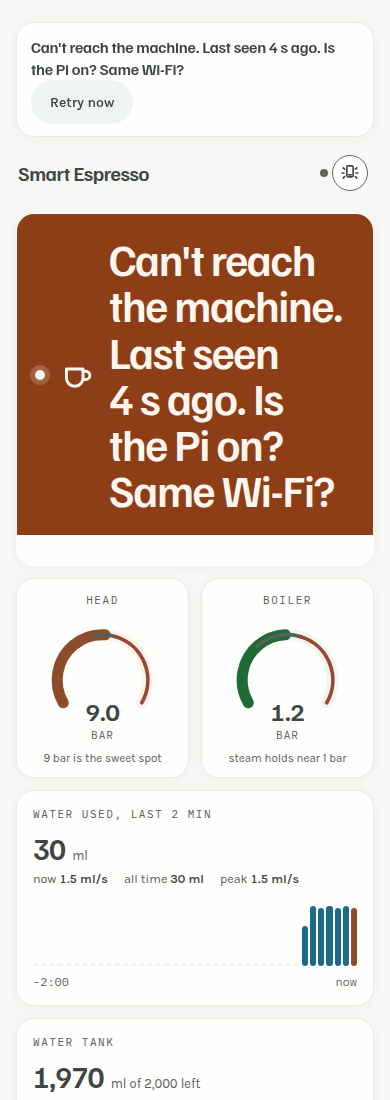
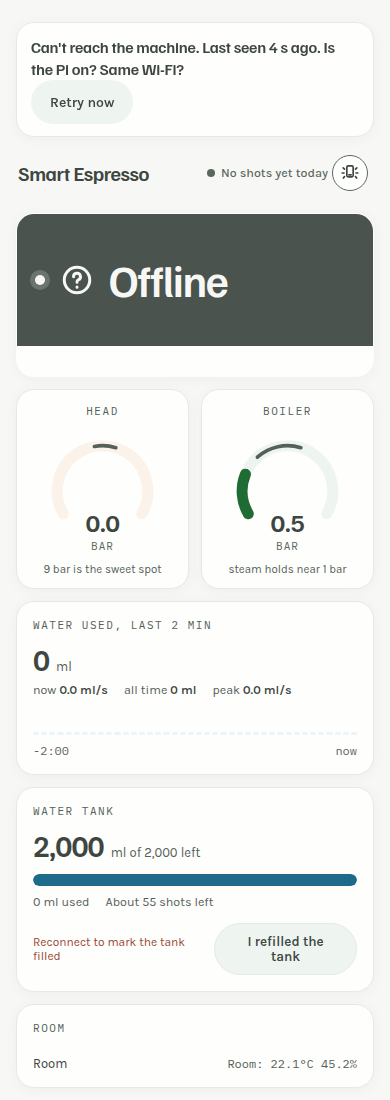
fix: say Offline on the status pill
The banner keeps the full can't-reach sentence. The hero no longer repeats it.

diff --git a/smart_espresso/web/static/sw.js b/smart_espresso/web/static/sw.js
@@ -2,7 +2,7 @@
 // still opens (slightly stale, clearly marked so by the page itself) when
 // the machine's server hiccups. Sensor data is never cached: /api/* always
 // goes to the network.
-const CACHE = 'espresso-shell-v34';
+const CACHE = 'espresso-shell-v42';
 const SHELL = [
   '/',
   '/dashboard_logic.js',

diff --git a/smart_espresso/web/static/dashboard_logic.js b/smart_espresso/web/static/dashboard_logic.js
@@ -281,7 +281,7 @@
     if (!connected && hasPayload) {
       return {
         replace: true,
-        label: offlineMessage(lastSeenAt, now),
+        label: "Offline",
         showShot: false,
         showTarget: false,
       };

diff --git a/smart_espresso/test/test_dashboard_logic.py b/smart_espresso/test/test_dashboard_logic.py
@@ -169,13 +169,19 @@ class TestGlance:
         )
         assert ready["replace"] is True
         assert ready["showShot"] is False
+        assert ready["label"] == "Offline"
         assert "Ready to pull" not in ready["label"]
-        assert "Last seen 40 s ago" in ready["label"]
+        assert "Can't reach" not in ready["label"]
+        assert "Same Wi-Fi" not in ready["label"]
+        banner = call("logic.offlineBanner(false, 3, 1000, 41000)")
+        assert "Can't reach the machine. Last seen 40 s ago" in banner["title"]
+        assert "Same Wi-Fi" in banner["title"]
         brewing = call(
             "logic.shownState({state:'brewing', label:'Pulling a shot',"
             " shot:{seconds:20, ml:30}}, 9, false, true, 1000, 41000)"
         )
         assert brewing["showShot"] is False
+        assert brewing["label"] == "Offline"
         assert "Pulling a shot" not in brewing["label"]
         live = call(
             "logic.shownState({state:'ready', label:'Ready to pull', shot:null},"
